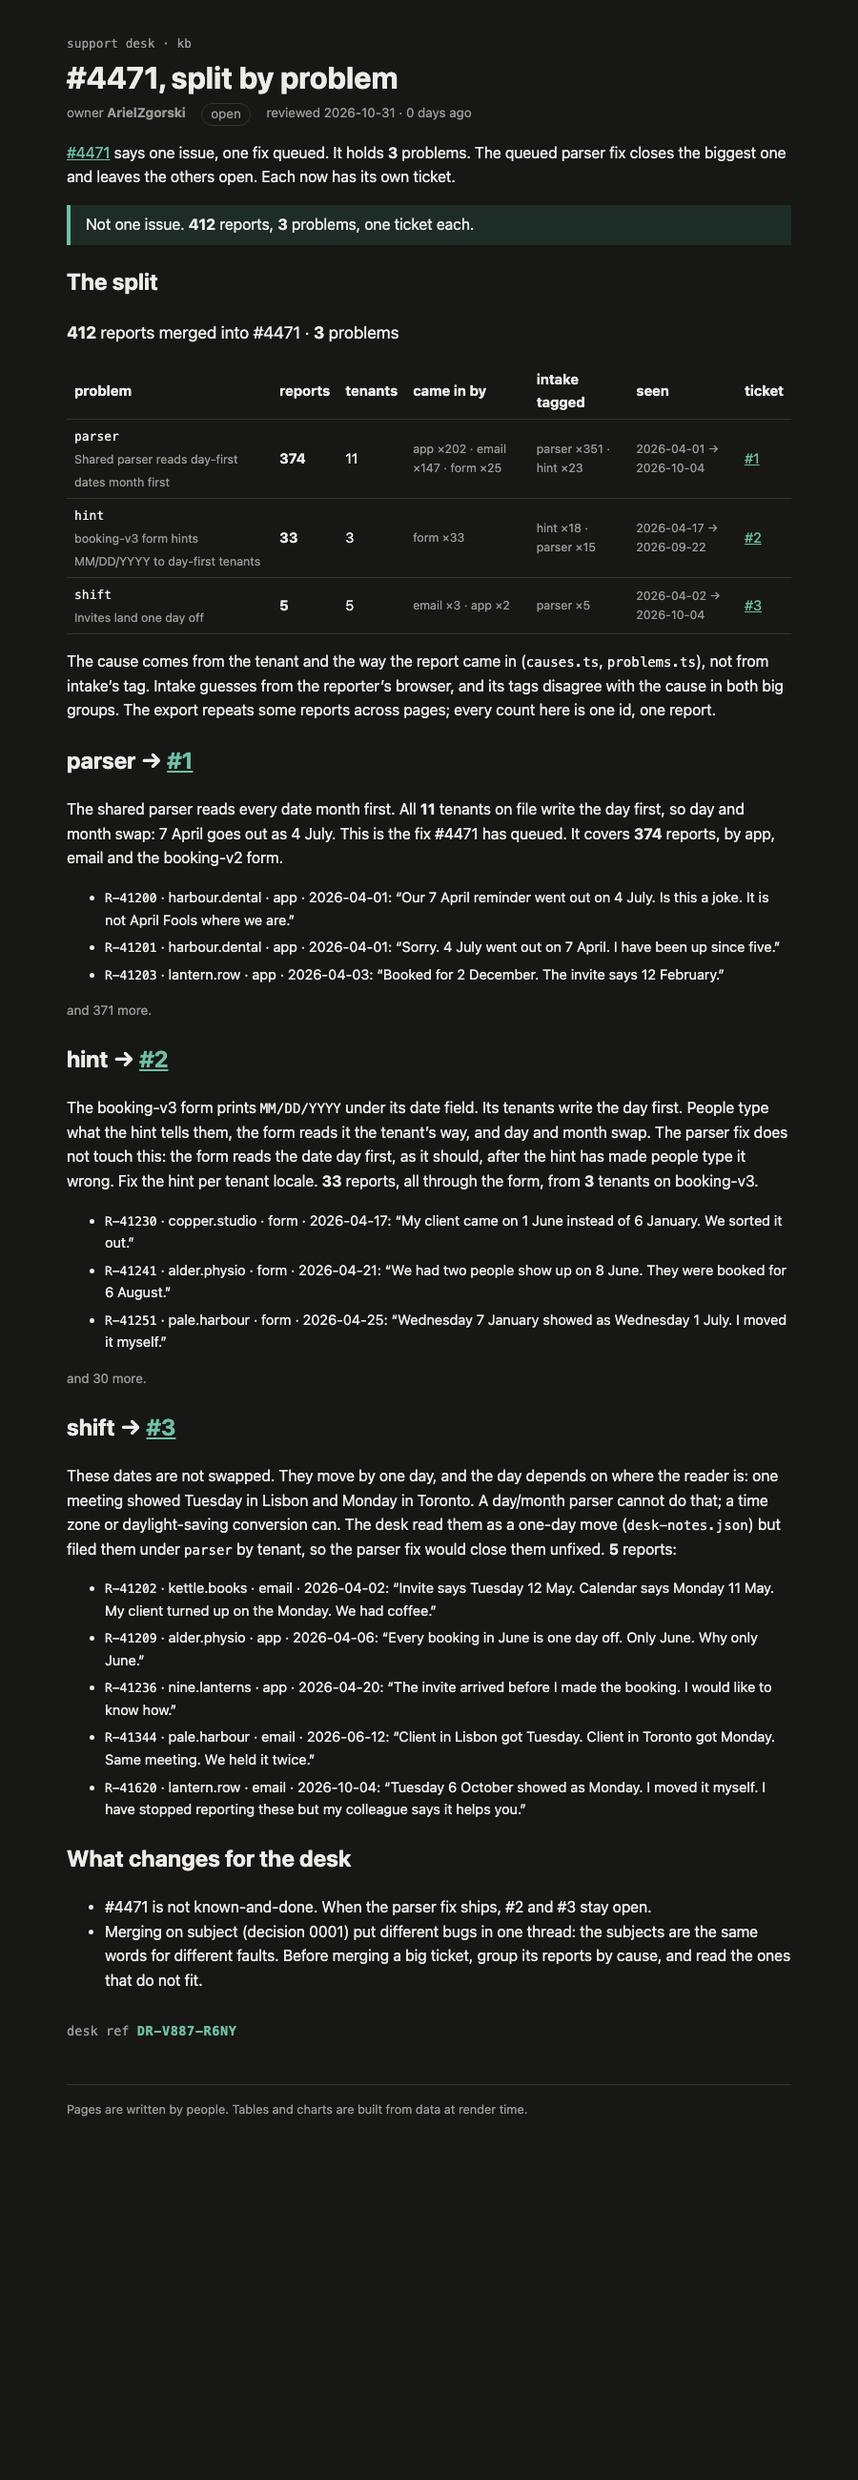
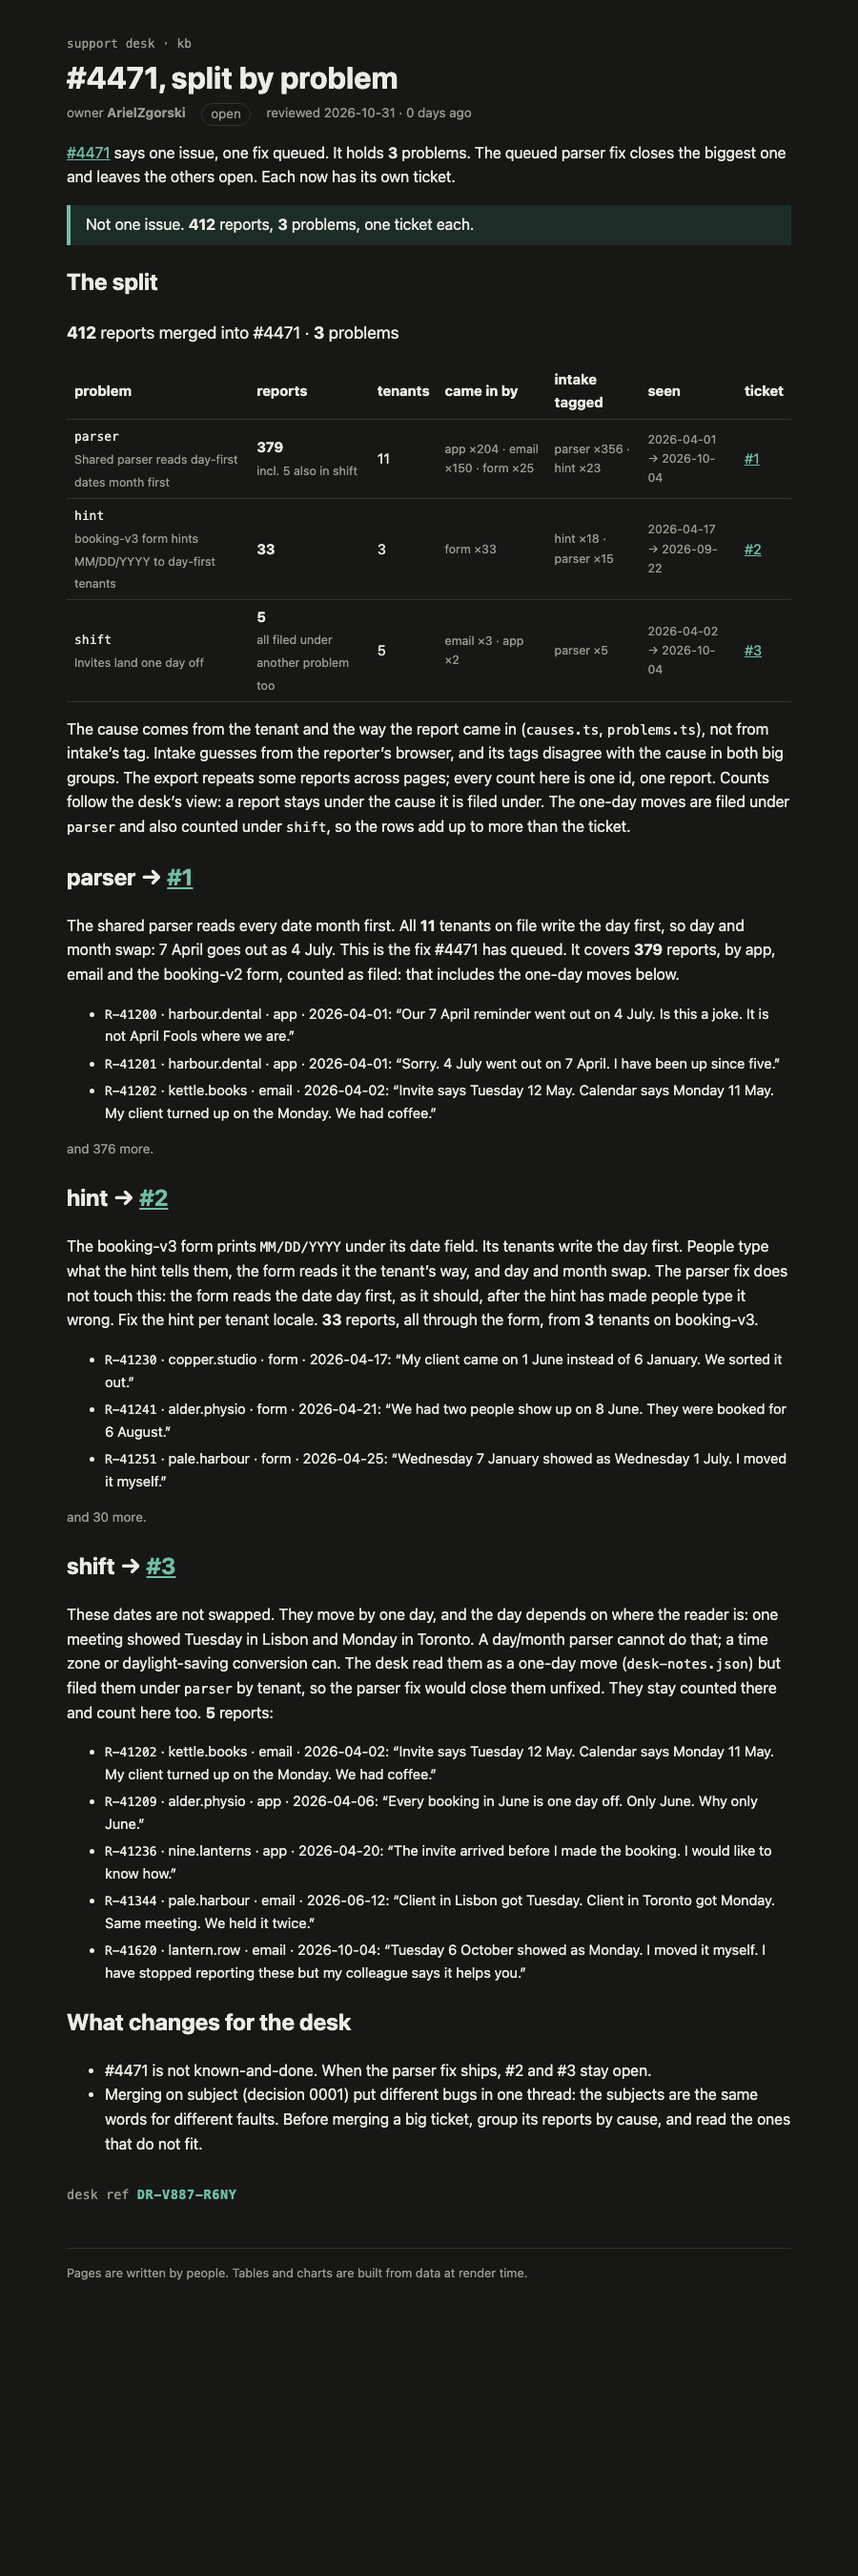
kb: count #4471 problems with the desk's view
Reports stay under the cause they are filed under, so parser covers 379
(including the 5 one-day moves, also counted under shift).

Changed region(s): [[0.0622, 0.0, 0.9022, 0.8723], [0.8711, 0.1558, 0.9022, 0.1869]]

diff --git a/rendered/4471-split.html b/rendered/4471-split.html
@@ -27,17 +27,20 @@
   </head>
   <body>
     <div style="display: contents"><!--[--><!--[--><!--[0--><!--[--><!--[--><!--[-1--><!--[--><div class="kb svelte-e2jw2j"><header><a class="crumb svelte-e2jw2j" href="https://github.com/ArielZgorski/megadev/tree/main/support-kb/src/routes/kb">support desk · kb</a> <h1 class="svelte-e2jw2j">#4471, split by problem</h1> <p class="meta svelte-e2jw2j"><span>owner <b>ArielZgorski</b></span> <span class="status open svelte-e2jw2j">open</span> <span class="svelte-e2jw2j">reviewed 2026-10-31 · 0 days ago</span></p></header> <!--[-1--><!--]--> <main><p><a href="https://github.com/ArielZgorski/megadev/tree/main/support-kb/src/routes/kb/incidents/4471">#4471</a> says one issue, one fix queued. It holds <strong>3</strong><!----> problems. The queued parser fix closes the biggest one
-and leaves the others open. Each now has its own ticket.</p> <aside class="note svelte-17bri61"><!---->Not one issue. <strong>412</strong><!----> reports, <strong>3</strong><!----> problems, one ticket each.<!----></aside><!----> <h2>The split</h2> <p class="sum svelte-1op6c6"><strong>412</strong> reports merged into #4471 · <strong>3</strong> problems</p> <table><thead><tr><th>problem</th><th>reports</th><th>tenants</th><th>came in by</th><th>intake tagged</th><th>seen</th><th>ticket</th></tr></thead><tbody><!--[--><tr><td><code>parser</code><br/><span class="what svelte-1op6c6">Shared parser reads day-first dates month first</span></td><td><strong>374</strong></td><td>11</td><td class="small svelte-1op6c6">app ×202 · email ×147 · form ×25</td><td class="small svelte-1op6c6">parser ×351 · hint ×23</td><td class="small svelte-1op6c6">2026-04-01 → 2026-10-04</td><td><!--[0--><a href="https://github.com/ArielZgorski/megadev/issues/1">#1</a><!--]--></td></tr><tr><td><code>hint</code><br/><span class="what svelte-1op6c6">booking-v3 form hints MM/DD/YYYY to day-first tenants</span></td><td><strong>33</strong></td><td>3</td><td class="small svelte-1op6c6">form ×33</td><td class="small svelte-1op6c6">hint ×18 · parser ×15</td><td class="small svelte-1op6c6">2026-04-17 → 2026-09-22</td><td><!--[0--><a href="https://github.com/ArielZgorski/megadev/issues/2">#2</a><!--]--></td></tr><tr><td><code>shift</code><br/><span class="what svelte-1op6c6">Invites land one day off</span></td><td><strong>5</strong></td><td>5</td><td class="small svelte-1op6c6">email ×3 · app ×2</td><td class="small svelte-1op6c6">parser ×5</td><td class="small svelte-1op6c6">2026-04-02 → 2026-10-04</td><td><!--[0--><a href="https://github.com/ArielZgorski/megadev/issues/3">#3</a><!--]--></td></tr><!--]--></tbody></table><!----> <p>The cause comes from the tenant and the way the report came in (<code>causes.ts</code>, <code>problems.ts</code>), not
+and leaves the others open. Each now has its own ticket.</p> <aside class="note svelte-17bri61"><!---->Not one issue. <strong>412</strong><!----> reports, <strong>3</strong><!----> problems, one ticket each.<!----></aside><!----> <h2>The split</h2> <p class="sum svelte-1op6c6"><strong>412</strong> reports merged into #4471 · <strong>3</strong> problems</p> <table><thead><tr><th>problem</th><th>reports</th><th>tenants</th><th>came in by</th><th>intake tagged</th><th>seen</th><th>ticket</th></tr></thead><tbody><!--[--><tr><td><code>parser</code><br/><span class="what svelte-1op6c6">Shared parser reads day-first dates month first</span></td><td><strong>379</strong><!--[0--><br/><span class="small svelte-1op6c6">incl. 5 also in shift</span><!--]--></td><td>11</td><td class="small svelte-1op6c6">app ×204 · email ×150 · form ×25</td><td class="small svelte-1op6c6">parser ×356 · hint ×23</td><td class="small svelte-1op6c6">2026-04-01 → 2026-10-04</td><td><!--[0--><a href="https://github.com/ArielZgorski/megadev/issues/1">#1</a><!--]--></td></tr><tr><td><code>hint</code><br/><span class="what svelte-1op6c6">booking-v3 form hints MM/DD/YYYY to day-first tenants</span></td><td><strong>33</strong><!--[-1--><!--]--></td><td>3</td><td class="small svelte-1op6c6">form ×33</td><td class="small svelte-1op6c6">hint ×18 · parser ×15</td><td class="small svelte-1op6c6">2026-04-17 → 2026-09-22</td><td><!--[0--><a href="https://github.com/ArielZgorski/megadev/issues/2">#2</a><!--]--></td></tr><tr><td><code>shift</code><br/><span class="what svelte-1op6c6">Invites land one day off</span></td><td><strong>5</strong><!--[0--><br/><span class="small svelte-1op6c6">all filed under another problem too</span><!--]--></td><td>5</td><td class="small svelte-1op6c6">email ×3 · app ×2</td><td class="small svelte-1op6c6">parser ×5</td><td class="small svelte-1op6c6">2026-04-02 → 2026-10-04</td><td><!--[0--><a href="https://github.com/ArielZgorski/megadev/issues/3">#3</a><!--]--></td></tr><!--]--></tbody></table><!----> <p>The cause comes from the tenant and the way the report came in (<code>causes.ts</code>, <code>problems.ts</code>), not
 from intake’s tag. Intake guesses from the reporter’s browser, and its tags disagree with the cause
-in both big groups. The export repeats some reports across pages; every count here is one id, one report.</p> <h2>parser → <a href="https://github.com/ArielZgorski/megadev/issues/1" rel="nofollow">#1</a></h2> <p>The shared parser reads every date month first. All <strong>11</strong><!----> tenants on file write the day first,
-so day and month swap: 7 April goes out as 4 July. This is the fix #4471 has queued. It covers <strong>374</strong><!----> reports, by app, email and the booking-v2 form.</p> <ul><!--[--><li class="svelte-fx4mb"><code>R-41200</code> · harbour.dental · app · 2026-04-01: “Our 7 April reminder went out on 4 July. Is this a joke. It is not April Fools where we are.”</li><li class="svelte-fx4mb"><code>R-41201</code> · harbour.dental · app · 2026-04-01: “Sorry. 4 July went out on 7 April. I have been up since five.”</li><li class="svelte-fx4mb"><code>R-41203</code> · lantern.row · app · 2026-04-03: “Booked for 2 December. The invite says 12 February.”</li><!--]--></ul> <!--[0--><p class="more svelte-fx4mb">and 371 more.</p><!--]--><!----> <h2>hint → <a href="https://github.com/ArielZgorski/megadev/issues/2" rel="nofollow">#2</a></h2> <p>The booking-v3 form prints <code>MM/DD/YYYY</code> under its date field. Its tenants write the day first.
+in both big groups. The export repeats some reports across pages; every count here is one id, one report.
+Counts follow the desk’s view: a report stays under the cause it is filed under. The one-day moves
+are filed under <code>parser</code> and also counted under <code>shift</code>, so the rows add up to more than the ticket.</p> <h2>parser → <a href="https://github.com/ArielZgorski/megadev/issues/1" rel="nofollow">#1</a></h2> <p>The shared parser reads every date month first. All <strong>11</strong><!----> tenants on file write the day first,
+so day and month swap: 7 April goes out as 4 July. This is the fix #4471 has queued. It covers <strong>379</strong><!----> reports, by app, email and the booking-v2 form, counted as filed:
+that includes the one-day moves below.</p> <ul><!--[--><li class="svelte-fx4mb"><code>R-41200</code> · harbour.dental · app · 2026-04-01: “Our 7 April reminder went out on 4 July. Is this a joke. It is not April Fools where we are.”</li><li class="svelte-fx4mb"><code>R-41201</code> · harbour.dental · app · 2026-04-01: “Sorry. 4 July went out on 7 April. I have been up since five.”</li><li class="svelte-fx4mb"><code>R-41202</code> · kettle.books · email · 2026-04-02: “Invite says Tuesday 12 May. Calendar says Monday 11 May. My client turned up on the Monday. We had coffee.”</li><!--]--></ul> <!--[0--><p class="more svelte-fx4mb">and 376 more.</p><!--]--><!----> <h2>hint → <a href="https://github.com/ArielZgorski/megadev/issues/2" rel="nofollow">#2</a></h2> <p>The booking-v3 form prints <code>MM/DD/YYYY</code> under its date field. Its tenants write the day first.
 People type what the hint tells them, the form reads it the tenant’s way, and day and month swap.
 The parser fix does not touch this: the form reads the date day first, as it should, after the
 hint has made people type it wrong. Fix the hint per tenant locale. <strong>33</strong><!----> reports, all through the form, from <strong>3</strong><!----> tenants on booking-v3.</p> <ul><!--[--><li class="svelte-fx4mb"><code>R-41230</code> · copper.studio · form · 2026-04-17: “My client came on 1 June instead of 6 January. We sorted it out.”</li><li class="svelte-fx4mb"><code>R-41241</code> · alder.physio · form · 2026-04-21: “We had two people show up on 8 June. They were booked for 6 August.”</li><li class="svelte-fx4mb"><code>R-41251</code> · pale.harbour · form · 2026-04-25: “Wednesday 7 January showed as Wednesday 1 July. I moved it myself.”</li><!--]--></ul> <!--[0--><p class="more svelte-fx4mb">and 30 more.</p><!--]--><!----> <h2>shift → <a href="https://github.com/ArielZgorski/megadev/issues/3" rel="nofollow">#3</a></h2> <p>These dates are not swapped. They move by one day, and the day depends on where the reader is:
 one meeting showed Tuesday in Lisbon and Monday in Toronto. A day/month parser cannot do that; a
 time zone or daylight-saving conversion can. The desk read them as a one-day move
 (<code>desk-notes.json</code>) but filed them under <code>parser</code> by tenant, so the parser fix would close them
-unfixed. <strong>5</strong><!----> reports:</p> <ul><!--[--><li class="svelte-fx4mb"><code>R-41202</code> · kettle.books · email · 2026-04-02: “Invite says Tuesday 12 May. Calendar says Monday 11 May. My client turned up on the Monday. We had coffee.”</li><li class="svelte-fx4mb"><code>R-41209</code> · alder.physio · app · 2026-04-06: “Every booking in June is one day off. Only June. Why only June.”</li><li class="svelte-fx4mb"><code>R-41236</code> · nine.lanterns · app · 2026-04-20: “The invite arrived before I made the booking. I would like to know how.”</li><li class="svelte-fx4mb"><code>R-41344</code> · pale.harbour · email · 2026-06-12: “Client in Lisbon got Tuesday. Client in Toronto got Monday. Same meeting. We held it twice.”</li><li class="svelte-fx4mb"><code>R-41620</code> · lantern.row · email · 2026-10-04: “Tuesday 6 October showed as Monday. I moved it myself. I have stopped reporting these but my colleague says it helps you.”</li><!--]--></ul> <!--[-1--><!--]--><!----> <h2>What changes for the desk</h2> <ul><li>#4471 is not known-and-done. When the parser fix ships, #2 and #3 stay open.</li> <li>Merging on subject (decision 0001) put different bugs in one thread: the subjects are the same words
+unfixed. They stay counted there and count here too. <strong>5</strong><!----> reports:</p> <ul><!--[--><li class="svelte-fx4mb"><code>R-41202</code> · kettle.books · email · 2026-04-02: “Invite says Tuesday 12 May. Calendar says Monday 11 May. My client turned up on the Monday. We had coffee.”</li><li class="svelte-fx4mb"><code>R-41209</code> · alder.physio · app · 2026-04-06: “Every booking in June is one day off. Only June. Why only June.”</li><li class="svelte-fx4mb"><code>R-41236</code> · nine.lanterns · app · 2026-04-20: “The invite arrived before I made the booking. I would like to know how.”</li><li class="svelte-fx4mb"><code>R-41344</code> · pale.harbour · email · 2026-06-12: “Client in Lisbon got Tuesday. Client in Toronto got Monday. Same meeting. We held it twice.”</li><li class="svelte-fx4mb"><code>R-41620</code> · lantern.row · email · 2026-10-04: “Tuesday 6 October showed as Monday. I moved it myself. I have stopped reporting these but my colleague says it helps you.”</li><!--]--></ul> <!--[-1--><!--]--><!----> <h2>What changes for the desk</h2> <ul><li>#4471 is not known-and-done. When the parser fix ships, #2 and #3 stay open.</li> <li>Merging on subject (decision 0001) put different bugs in one thread: the subjects are the same words
 for different faults. Before merging a big ticket, group its reports by cause, and read the
 ones that do not fit.</li></ul> <!--[0--><p class="stamp svelte-1280m42">desk ref <b class="svelte-1280m42">DR-V887-R6NY</b></p><!--]--><!----><!----></main> <footer class="svelte-e2jw2j">Pages are written by people. Tables and charts are built from data at render time.</footer></div><!--]--><!--]--><!--]--><!----><!--]--><!--]--><!--]--><!----> <!--[-1--><!--]--><!--]-->
 			

diff --git a/support-kb/src/lib/kb/problems.ts b/support-kb/src/lib/kb/problems.ts
@@ -1,6 +1,7 @@
-// Splits a merged ticket into the problems it really holds. Builds on causes.ts, with one change:
-// reports the desk read as a one-day move (desk-notes.json) are their own problem, not `parser`.
-// A month-first parse swaps day and month; it cannot move a date by one day.
+// Splits a merged ticket into the problems it really holds. Counts with the desk's view (causes.ts):
+// every report stays under the cause it is filed under. Reports the desk read as a one-day move
+// (desk-notes.json) are also their own problem, `shift`: a month-first parse swaps day and month;
+// it cannot move a date by one day. So `shift` reports count twice: filed, and as what they are.
 import { causeOf, uniqueById, type Cause, type Report, type Tenant } from '#lib/kb/causes';
 
 export type Problem = Cause | 'shift' | 'unplaced';
@@ -24,9 +25,9 @@ export const PROBLEMS: Record<Problem, { title: string; what: string }> = {
   },
 };
 
-export function problemOf(r: Report, t: Tenant | undefined, oneDayMove: readonly string[]): Problem {
-  if (oneDayMove.includes(r.id)) return 'shift';
-  return causeOf(r, t) ?? 'unplaced';
+export function problemsOf(r: Report, t: Tenant | undefined, oneDayMove: readonly string[]): Problem[] {
+  const filed: Problem = causeOf(r, t) ?? 'unplaced';
+  return oneDayMove.includes(r.id) ? [filed, 'shift'] : [filed];
 }
 
 export type ProblemGroup = {
@@ -37,6 +38,8 @@ export type ProblemGroup = {
   taggedAs: Record<string, number>;
   firstSeen: string;
   lastSeen: string;
+  // Of these, how many are also counted under another problem.
+  overlap: number;
 };
 
 const tally = (xs: string[]) => xs.reduce<Record<string, number>>((n, x) => ({ ...n, [x]: (n[x] ?? 0) + 1 }), {});
@@ -50,8 +53,7 @@ export function splitTicket(
   const merged = uniqueById(all).filter((r) => r.mergedInto === ticket);
   const by = new Map<Problem, Report[]>();
   for (const r of merged) {
-    const p = problemOf(r, tenantOf(r), oneDayMove);
-    by.set(p, [...(by.get(p) ?? []), r]);
+    for (const p of problemsOf(r, tenantOf(r), oneDayMove)) by.set(p, [...(by.get(p) ?? []), r]);
   }
   const groups = [...by.entries()]
     .map(([problem, rs]) => {
@@ -64,6 +66,7 @@ export function splitTicket(
         taggedAs: tally(rs.map((r) => r.meta.intakeTag)),
         firstSeen: days[0],
         lastSeen: days[days.length - 1],
+        overlap: problem === 'shift' ? rs.length : rs.filter((r) => oneDayMove.includes(r.id)).length,
       };
     })
     .sort((a, b) => b.reports.length - a.reports.length);

diff --git a/support-kb/src/lib/kb/ProblemTable.svelte b/support-kb/src/lib/kb/ProblemTable.svelte
@@ -27,7 +27,7 @@
     {#each s.groups as g (g.problem)}
       <tr>
         <td><code>{g.problem}</code><br /><span class="what">{PROBLEMS[g.problem].title}</span></td>
-        <td><strong>{g.reports.length}</strong></td>
+        <td><strong>{g.reports.length}</strong>{#if g.overlap}<br /><span class="small">{g.problem === 'shift' ? 'all filed under another problem too' : `incl. ${g.overlap} also in shift`}</span>{/if}</td>
         <td>{g.tenants.length}</td>
         <td class="small">{fmt(g.channels)}</td>
         <td class="small">{fmt(g.taggedAs)}</td>

diff --git a/README.md b/README.md
@@ -1,11 +1,12 @@
 # megadev: #4471 split by problem
 
 The support desk merged 412 date reports into one ticket, #4471, and marked it known. It holds three problems.
+Counts follow the desk's own view, as exported: a report stays under the cause it is filed under, so the 5 one-day moves count under #1 and #3.
 Each now has its own ticket in this repo's issues.
 
 | ticket | problem | reports |
 |---|---|---|
-| [#1](https://github.com/ArielZgorski/megadev/issues/1) | Shared parser reads day-first dates month first | 374 |
+| [#1](https://github.com/ArielZgorski/megadev/issues/1) | Shared parser reads day-first dates month first | 379 |
 | [#2](https://github.com/ArielZgorski/megadev/issues/2) | booking-v3 form hints MM/DD/YYYY to day-first tenants | 33 |
 | [#3](https://github.com/ArielZgorski/megadev/issues/3) | Invites land one day off (time zone) | 5 |
 
